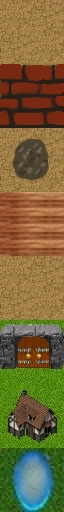
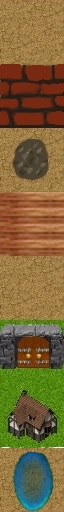
Adds portal tile and improves levels

Changed region(s): [[0.0, 0.8438, 1.0, 1.0]]

diff --git a/src/ui.c b/src/ui.c
@@ -51,14 +51,25 @@ bool get_input(SDL_Event event, Asset_t * assets, Floor_t * floor, Player_t * pl
     return true;
 }
 
+int check_level_complete(Floor_t * floor, Player_t * player)
+{
+    if (floor->coins - player->coins <= 0) {
+        if (floor_get_tile(floor, player->x, player->y) == 7) {
+            return (floor->level_number + 1);
+        }
+    }
+    return 0;
+}
 
 int logic(Timer_t * tick_timer, Asset_t * assets, Floor_t * floor, Player_t * player)
 {
+    int next_level;
+
     player_check_get_item(assets, floor, player);
-    floor_increment_time(floor);
-    if (floor->coins - player->coins <= 0) {
-        return floor->level_number + 1;
+    if (((next_level = check_level_complete(floor, player)) > 0)) {
+        return next_level;
     }
+    floor_increment_time(floor);
     if (timer_tick(tick_timer, TICK_FREQ)) {
         // TODO: Events when game tick occurs
     }

diff --git a/src/floor.h b/src/floor.h
@@ -25,6 +25,7 @@
 
 #define TILEFLAG_SOLID 1
 #define TILEFLAG_PUSHABLE 1 << 1
+#define TILEFLAG_BREAKABLE 2 << 1
 
 #define tile_has_flag(tile, flag) (!! (TILE_FLAG_LOOKUP[(tile)] & (1 << ((flag) - 1))))
 
@@ -41,6 +42,11 @@ static const int TILE_FLAG_LOOKUP [] = {
     0,
     0 | TILEFLAG_SOLID,
     0 | TILEFLAG_SOLID | TILEFLAG_PUSHABLE,
+    0 | TILEFLAG_SOLID | TILEFLAG_BREAKABLE,
+    0,
+    0,
+    0,
+    0,
 };
 
 typedef struct {

diff --git a/src/ui.h b/src/ui.h
@@ -24,6 +24,7 @@
 
 #define MAX_LEVEL 2
 
+int check_level_complete(Floor_t * floor, Player_t * player);
 int logic(Timer_t * tick_timer, Asset_t * assets, Floor_t * floor, Player_t * player);
 bool get_input(SDL_Event event, Asset_t * assets, Floor_t * floor, Player_t * player);
 int play_loop(Asset_t * assets, Floor_t * floor, Player_t * player);
